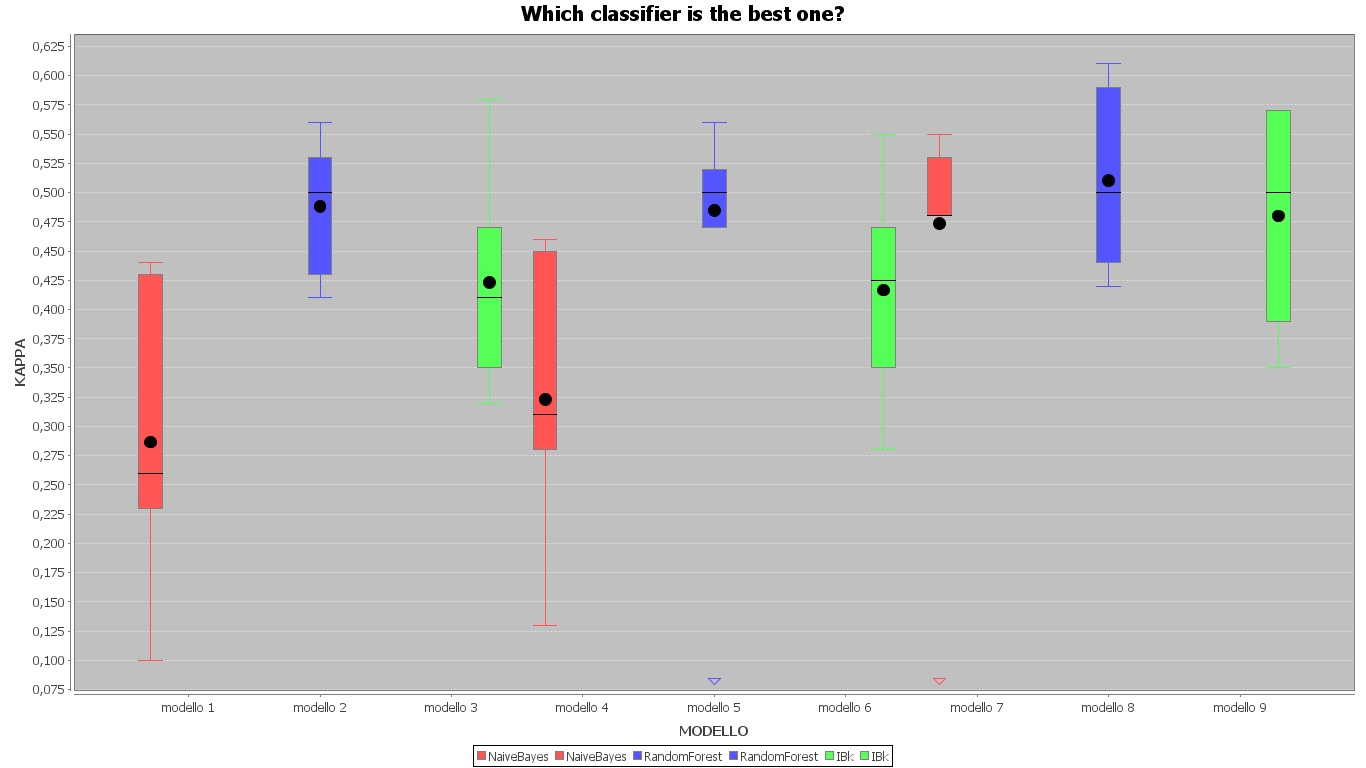
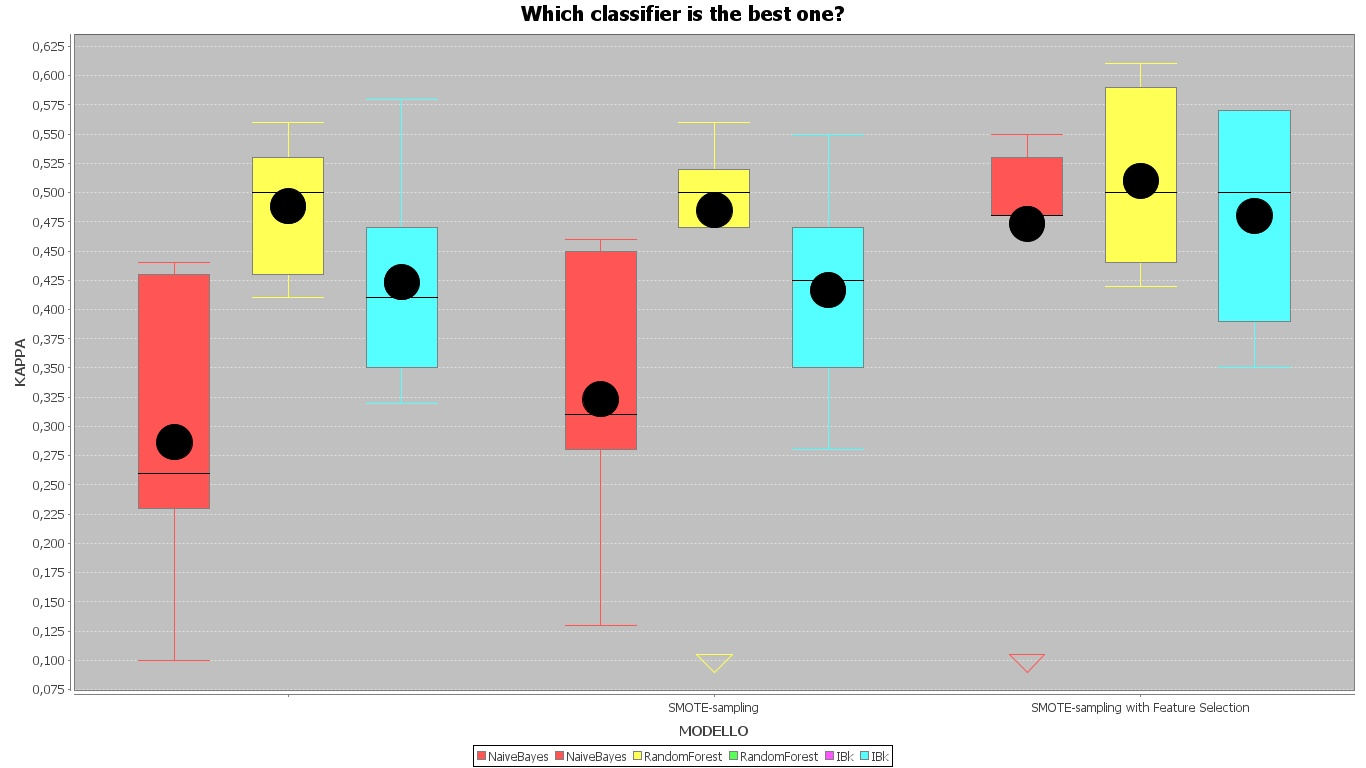
Box chart modified

diff --git a/Deliverable2/src/main/java/org/learning/bookkeeperlearning/utility/BoxChart.java b/Deliverable2/src/main/java/org/learning/bookkeeperlearning/utility/BoxChart.java
@@ -20,16 +20,18 @@ public  class BoxChart extends ApplicationFrame {
 
     public BoxChart(String applicationTitle, String chartTitle, MetricsEnum metricsEnum, List<LearningModelEntity> learningModelEntityList) {
         super( applicationTitle );
-        JFreeChart barChart = ChartFactory.createBoxAndWhiskerChart(
+
+
+        JFreeChart boxChart = ChartFactory.createBoxAndWhiskerChart(
                 chartTitle,
                 "MODELLO",
                 metricsEnum.name(),
                 createDataset(learningModelEntityList,metricsEnum),
                 true);
 
-        chart = barChart;
+        chart = boxChart;
 
-        ChartPanel chartPanel = new ChartPanel( barChart );
+        ChartPanel chartPanel = new ChartPanel( boxChart );
         Dimension dim = Toolkit.getDefaultToolkit().getScreenSize();
         chartPanel.setPreferredSize(new java.awt.Dimension(dim.width, dim.height));
         setContentPane( chartPanel );
@@ -40,20 +42,23 @@ public  class BoxChart extends ApplicationFrame {
             final DefaultBoxAndWhiskerCategoryDataset dataset = new DefaultBoxAndWhiskerCategoryDataset();
 
             int iterations = learningModelEntityList.get(0).getIterations();
-            for (int j=0; j<learningModelEntityList.size(); j++) {
+            for (LearningModelEntity learningModelEntity : learningModelEntityList) {
                 List<Double> values = new ArrayList<>();
-                String classifier = learningModelEntityList.get(j).getClassifier();
+                String classifier = learningModelEntity.getClassifier();
                 for (int i = 0; i < iterations; i++) {
-                    if (metricsEnum.equals(MetricsEnum.ACCURACY)) values.add(learningModelEntityList.get(j).getAccuracy().get(i));
-                    else if (metricsEnum.equals(MetricsEnum.RECALL))   values.add(learningModelEntityList.get(j).getRecall().get(i));
-                    else if (metricsEnum.equals(MetricsEnum.PRECISION))  values.add(learningModelEntityList.get(j).getPrecision().get(i));
-                    else if (metricsEnum.equals(MetricsEnum.KAPPA))  values.add(learningModelEntityList.get(j).getKappa().get(i));
-                    else values.add(learningModelEntityList.get(j).getRocAuc().get(i));
+                    if (metricsEnum.equals(MetricsEnum.ACCURACY)) values.add(learningModelEntity.getAccuracy().get(i));
+                    else if (metricsEnum.equals(MetricsEnum.RECALL)) values.add(learningModelEntity.getRecall().get(i));
+                    else if (metricsEnum.equals(MetricsEnum.PRECISION))
+                        values.add(learningModelEntity.getPrecision().get(i));
+                    else if (metricsEnum.equals(MetricsEnum.KAPPA)) values.add(learningModelEntity.getKappa().get(i));
+                    else values.add(learningModelEntity.getRocAuc().get(i));
                 }
 
                 BoxAndWhiskerItem item = BoxAndWhiskerCalculator.calculateBoxAndWhiskerStatistics(values);
-                dataset.add(item, classifier , "modello " + (j+1) );
-            }
+                String columnKey = "Walk Forward " + learningModelEntity.getBalancing();
+                if (learningModelEntity.isFeatureSelection()) columnKey = columnKey + " fs";
+                dataset.add(item, classifier,columnKey);
+        }
             return dataset;
         }
 

diff --git a/Deliverable2/src/main/java/org/learning/bookkeeperlearning/WekaLearning.java b/Deliverable2/src/main/java/org/learning/bookkeeperlearning/WekaLearning.java
@@ -37,9 +37,9 @@ public class WekaLearning {
 
         res.addAll(walkForwardWithBalancingAndFeatureSelection.validation());
 
-        BoxChart chart = walkForwardWithBalancingAndFeatureSelection.showChart(res, MetricsEnum.KAPPA);
+        BoxChart chart = walkForwardWithBalancingAndFeatureSelection.showChart(res, MetricsEnum.ACCURACY);
 
-        walkForwardWithBalancingAndFeatureSelection.saveChart(chart,"Kappa_all");
+        walkForwardWithBalancingAndFeatureSelection.saveChart(chart,"Accuracy_All");
 
 
 
